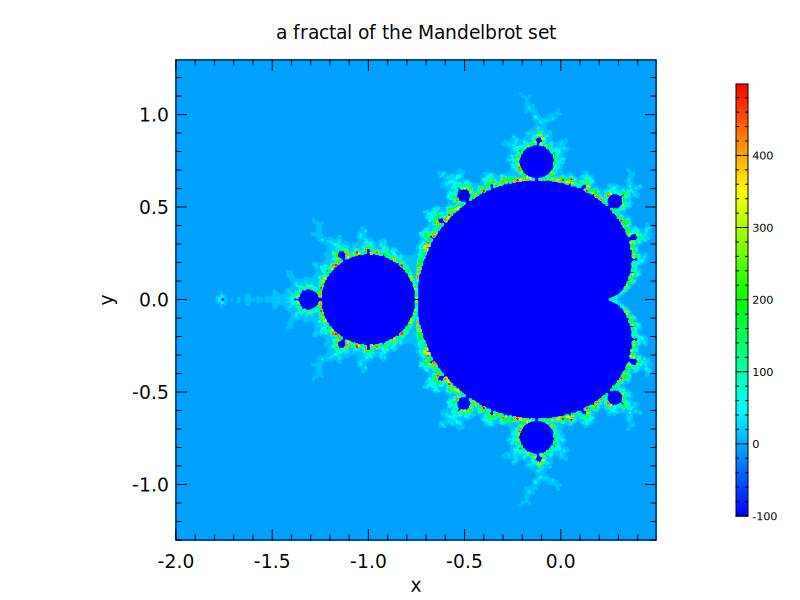
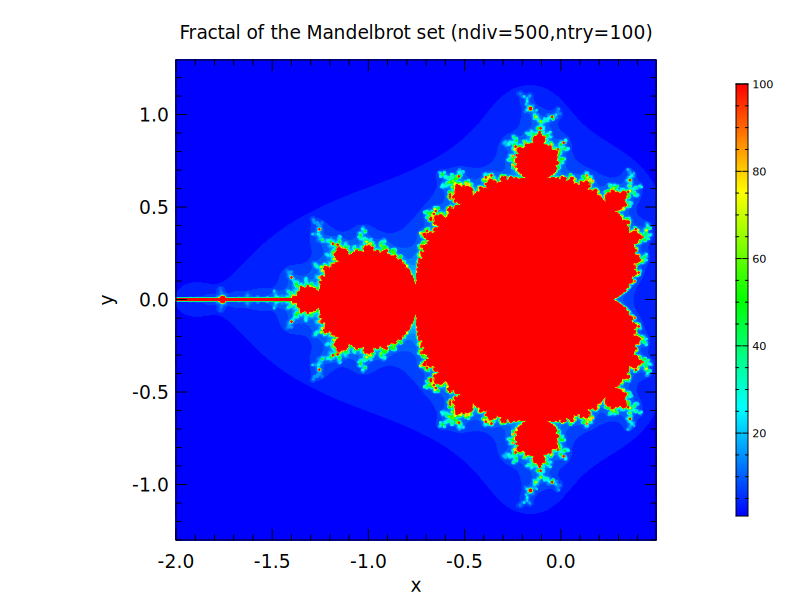
mandelbrot.cc: rename n to ndiv, add ntry, modify ex27.tip, remake figs of ex27

diff --git a/src/c++03/mandelbrot.cc b/src/c++03/mandelbrot.cc
@@ -1,42 +1,39 @@
-// mandelbrot : make a Mandelbrot set with specified size and range
-//
-// c++03
-//
 #include <complex>
 #include <fstream>
 #include "thl/ArgOpt.hh"
 
-int divergence_thresh(std::complex<double> c) {
+int divergence_thresh(int ntry, std::complex<double> c) {
   std::complex<double> z(0,0);
-  for(int n=0; n < 500; n++) {
-    if(std::abs(z) > 2) {return n;}
+  for(int n=0; n < ntry; n++) {
+    if(std::abs(z) > 2) return n;
     z = z*z + c;
   }
-  return -100;
+  return ntry;
 }
 
 int main(int argc, const char *argv[]) {
-  thl::ArgOpt arg(argc,argv,"n:,xr:,yr:");
+  thl::ArgOpt arg(argc,argv,"ndiv:,ntry:,xr:,yr:");
 
-  int n = arg.opt_def_stoi("n","1000");
-  thl::StrSplit xr(arg.opt_def("xr","-2.0:0.5"),":");
-  thl::StrSplit yr(arg.opt_def("yr","-1.3:1.3"),":");
+  int ndiv = arg.opt_def_stoi("ndiv","500");  // num of divide of x and y
+  int ntry = arg.opt_def_stoi("ntry","1000"); // num of try to find divergence
+  thl::StrSplit xr(arg.opt_def("xr","-2.0:0.5"),":"); // x-range
+  thl::StrSplit yr(arg.opt_def("yr","-1.3:1.3"),":"); // y-range
   double x0 = xr.stof(0);
   double x1 = xr.stof(1);
   double y0 = yr.stof(0);
   double y1 = yr.stof(1);
-  double dx = (x1-x0)/(double)n;
-  double dy = (y1-y0)/(double)n;
+  double dx = (x1-x0)/(double)ndiv;
+  double dy = (y1-y0)/(double)ndiv;
 
   std::ofstream ofs("mandelbrot.dat");
   if(ofs) {
-    for(int iy = 0; iy < n; iy++) {
-      for(int ix = 0; ix < n; ix++) {
-	double x = x0 + dx*(double)ix;
-	double y = y0 + dy*(double)iy;
-	std::complex<double> c(x,y);
-	ofs << x << " " << y << " "
-	    << divergence_thresh(c) << std::endl;
+    for(int iy = 0; iy < ndiv; iy++) {
+      for(int ix = 0; ix < ndiv; ix++) {
+        double x = x0 + dx*(double)ix;
+        double y = y0 + dy*(double)iy;
+        std::complex<double> c(x,y);
+        ofs << x << " " << y << " "
+            << divergence_thresh(ntry,c) << std::endl;
       }
       ofs << std::endl;
     }

diff --git a/doc/ex/ex27.md b/doc/ex/ex27.md
@@ -2,45 +2,42 @@
 
 ## External program to make the Mandelbrot set
 ```
-// mandelbrot : make a Mandelbrot set with specified size and range
-//
-// c++03
-//
 #include <complex>
 #include <fstream>
 #include "thl/ArgOpt.hh"
 
-int divergence_thresh(std::complex<double> c) {
+int divergence_thresh(int ntry, std::complex<double> c) {
   std::complex<double> z(0,0);
-  for(int n=0; n < 500; n++) {
-    if(std::abs(z) > 2) {return n;}
+  for(int n=0; n < ntry; n++) {
+    if(std::abs(z) > 2) return n;
     z = z*z + c;
   }
-  return -100;
+  return ntry;
 }
 
 int main(int argc, const char *argv[]) {
-  thl::ArgOpt arg(argc,argv,"n:,xr:,yr:");
+  thl::ArgOpt arg(argc,argv,"ndiv:,ntry:,xr:,yr:");
 
-  int n = arg.opt_def_stoi("n","1000");
-  thl::StrSplit xr(arg.opt_def("xr","-2.0:0.5"),":");
-  thl::StrSplit yr(arg.opt_def("yr","-1.3:1.3"),":");
+  int ndiv = arg.opt_def_stoi("ndiv","500");  // num of divide of x and y
+  int ntry = arg.opt_def_stoi("ntry","1000"); // num of try to find divergence
+  thl::StrSplit xr(arg.opt_def("xr","-2.0:0.5"),":"); // x-range
+  thl::StrSplit yr(arg.opt_def("yr","-1.3:1.3"),":"); // y-range
   double x0 = xr.stof(0);
   double x1 = xr.stof(1);
   double y0 = yr.stof(0);
   double y1 = yr.stof(1);
-  double dx = (x1-x0)/(double)n;
-  double dy = (y1-y0)/(double)n;
+  double dx = (x1-x0)/(double)ndiv;
+  double dy = (y1-y0)/(double)ndiv;
 
   std::ofstream ofs("mandelbrot.dat");
   if(ofs) {
-    for(int iy = 0; iy < n; iy++) {
-      for(int ix = 0; ix < n; ix++) {
-	double x = x0 + dx*(double)ix;
-	double y = y0 + dy*(double)iy;
-	std::complex<double> c(x,y);
-	ofs << x << " " << y << " "
-	    << divergence_thresh(c) << std::endl;
+    for(int iy = 0; iy < ndiv; iy++) {
+      for(int ix = 0; ix < ndiv; ix++) {
+        double x = x0 + dx*(double)ix;
+        double y = y0 + dy*(double)iy;
+        std::complex<double> c(x,y);
+        ofs << x << " " << y << " "
+            << divergence_thresh(ntry,c) << std::endl;
       }
       ofs << std::endl;
     }
@@ -52,17 +49,6 @@ int main(int argc, const char *argv[]) {
 ## Macro file
 
 ```
-#
-# using external program:  src/c++03/mandelbrot.cc
-#
-args n=500,xr=-2:0.5,yr=-1.3:1.3
-
-sys ./bin/mandelbrot -n [n] -xr [xr] -yr [yr]
-
-title "a fractal of the Mandelbrot set"
-mread x,y,z mandelbrot.dat
-vp 0 0 0 0 1
-mplot x y z (xm:0 ym:0 mt:cont2)
 ```
 
 ## Execute macro with default range
@@ -73,7 +59,7 @@ exe doc/macro/ex27.tip
 
 ## Execute macro with expanded range
 ```
-exe doc/macro/ex27.tip n=1000,xr=-0.2:-0.1,yr=-0.9:-0.8
+exe doc/macro/ex27.tip ndiv=1000,ntry=500,xr=-0.2:-0.1,yr=-0.9:-0.8
 ```
 ![](../fig/ex27b.png)
 
